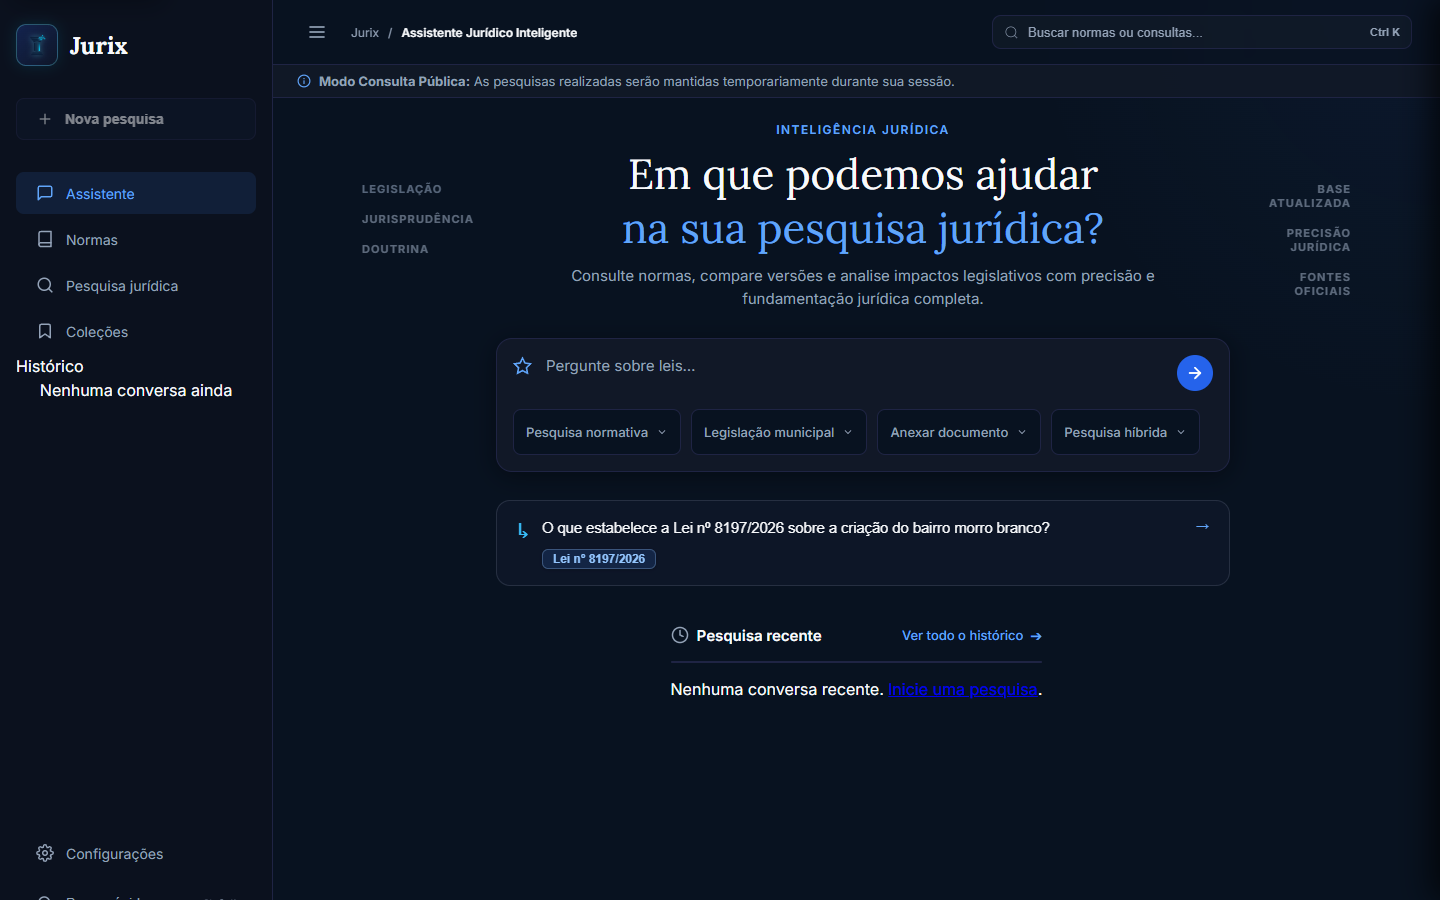
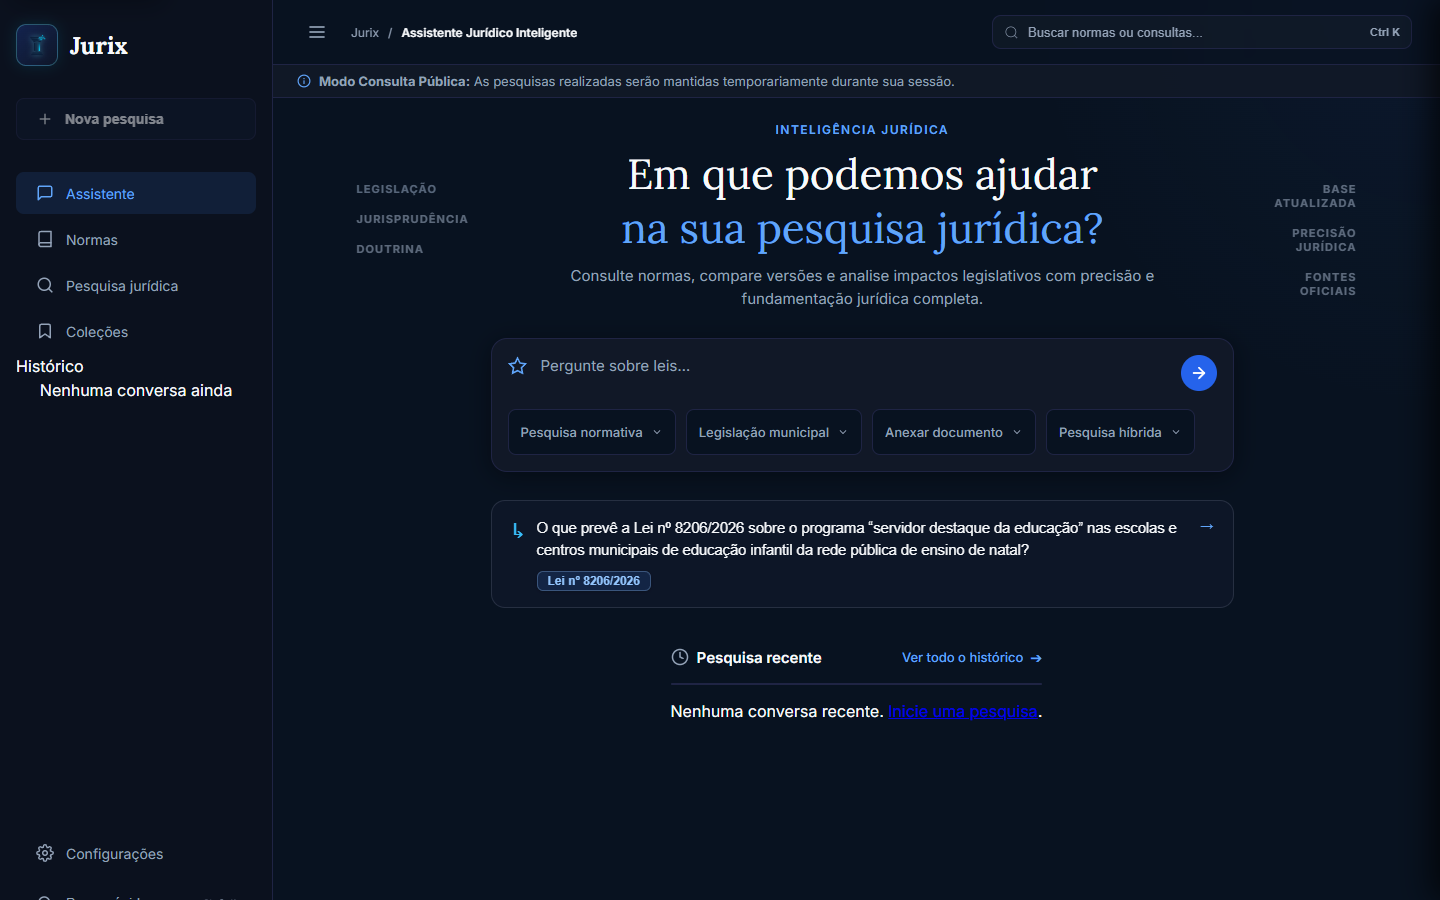
Polish direct-search fallback and secondary actions

diff --git a/src/apps/core/static/css/workspace.css b/src/apps/core/static/css/workspace.css
@@ -55,6 +55,8 @@
 .workspace-button { min-height: 40px; padding: 0 15px; border-radius: 9px; border: 1px solid var(--figma-border); font: inherit; font-size: 12px; font-weight: 700; cursor: pointer; text-decoration: none; display: inline-flex; align-items: center; justify-content: center; }
 .workspace-button-primary { background: var(--figma-blue-primary); color: var(--figma-text-white); border-color: var(--figma-blue-primary); }
 .workspace-button-primary:hover { background: var(--figma-blue-dark); }
+.workspace-button-secondary { background: rgba(255,255,255,.035); color: var(--figma-text-body); border-color: var(--figma-border-strong); }
+.workspace-button-secondary:hover { background: rgba(96,165,250,.08); color: var(--figma-text-white); border-color: var(--figma-blue-light); }
 .workspace-card-grid { display: grid; grid-template-columns: repeat(auto-fill, minmax(240px, 1fr)); gap: 16px; }
 .workspace-card { padding: 22px; border: 1px solid var(--figma-border); border-radius: 14px; background: var(--figma-bg-surface); }
 .workspace-card h2 { margin: 8px 0; font-size: 1.05rem; }

diff --git a/src/apps/legislation/templates/legislation/workspace/base.html b/src/apps/legislation/templates/legislation/workspace/base.html
@@ -12,7 +12,7 @@
     <link rel="preconnect" href="https://fonts.gstatic.com" crossorigin>
     <link href="https://fonts.googleapis.com/css2?family=Inter:wght@400;500;600;700&family=Lora:ital,wght@0,400;0,600;0,700;1,400&family=JetBrains+Mono:wght@400;500&display=swap" rel="stylesheet">
     <link rel="stylesheet" href="{% static 'css/jurix-figma.css' %}?v=20260929-color-contrast-aa">
-    <link rel="stylesheet" href="{% static 'css/workspace.css' %}?v=20260929-settings-warning1">
+    <link rel="stylesheet" href="{% static 'css/workspace.css' %}?v=20260929-secondary-button1">
     <link rel="stylesheet" href="{% static 'css/jurix-components.css' %}">
     {% block extra_css %}{% endblock %}
 </head>

diff --git a/FRONTEND_LOG.md b/FRONTEND_LOG.md
@@ -1519,6 +1519,33 @@ streaming/persistence tests, and contrast checks. `git diff --check` passed.
 Next action: Re-audit route navigation and history-to-assistant transitions,
 including viewport and focus behavior on mobile.
 
+## Cycle 37 — 2026-09-29
+
+Area: Theme consistency between workspace and assistant/public shells.
+
+Observed problem: `/configuracoes/` stores theme in `jurix-preferences`, while
+the assistant's legacy `theme.js` read only `jurix-theme`. A live-browser route
+walk reproduced the mismatch: saving Light left `/assistente/` Dark. The legacy
+toggle also changed only its old key, so workspace pages could revert it.
+
+Changes made: Theme resolution now prioritizes the shared workspace preference,
+supports the `system` mode without converting it into a fixed color, and keeps
+the legacy key synchronized for older routes. Workspace appearance application
+also updates that compatibility key. Cache keys were bumped on both templates
+that load the shared theme controller.
+
+Browser validation: Reproduced the old cross-route mismatch on the local Django
+app. Added Chromium coverage for conflicting old/new keys, toggle synchronization,
+and system-dark behavior with the system preference preserved. Focused test
+passed.
+
+Tests: Focused theme integration Chromium test passed. The full frontend suite
+passed with 16 real-Chromium scenarios, 18 structural tests, 15
+streaming/persistence tests, and contrast checks. `git diff --check` passed.
+
+Next action: Continue with keyboard and route transitions from History into
+conversation pages, including browser back/forward and mobile navigation.
+
 ## Cycle 38 — 2026-09-29
 
 Area: Applying density preferences to assistant conversations.
@@ -1621,12 +1648,15 @@ existing search supports number, type and ementa. The corpus currently has only
 
 Changes made: Added a clear direct-catalog CTA to semantic no-result states,
 preserving query, type and year in the link. Added structural coverage; no
-backend, RAG, model or API contract was changed.
+backend, RAG, model or API contract was changed. Found that the shared
+`workspace-button-secondary` class had no explicit design-system rules; added
+normal/hover states for the CTA and the existing history pagination links.
 
 Browser validation: Real 390px `/pesquisa/` rendered the CTA without horizontal
 overflow and produced `/normas/?q=7982&tipo=1&ano=2025`. The linked route
 returned HTTP 200 with those filters. This is a discoverable fallback, not a
-claim that a missing norm exists in the local corpus.
+claim that a missing norm exists in the local corpus. The CTA's computed hit
+target is 46px; hover changes surface, border and text color as intended.
 
 Tests: Focused empty-state contract passed. The full frontend suite passed with
 17 real-Chromium scenarios, 19 structural tests, 15 streaming/persistence
@@ -1634,30 +1664,3 @@ tests, and contrast checks. `git diff --check` passed.
 
 Next action: Continue route-level keyboard verification and audit no-results,
 empty and error states across the primary product surfaces.
-
-## Cycle 37 — 2026-09-29
-
-Area: Theme consistency between workspace and assistant/public shells.
-
-Observed problem: `/configuracoes/` stores theme in `jurix-preferences`, while
-the assistant's legacy `theme.js` read only `jurix-theme`. A live-browser route
-walk reproduced the mismatch: saving Light left `/assistente/` Dark. The legacy
-toggle also changed only its old key, so workspace pages could revert it.
-
-Changes made: Theme resolution now prioritizes the shared workspace preference,
-supports the `system` mode without converting it into a fixed color, and keeps
-the legacy key synchronized for older routes. Workspace appearance application
-also updates that compatibility key. Cache keys were bumped on both templates
-that load the shared theme controller.
-
-Browser validation: Reproduced the old cross-route mismatch on the local Django
-app. Added Chromium coverage for conflicting old/new keys, toggle synchronization,
-and system-dark behavior with the system preference preserved. Focused test
-passed.
-
-Tests: Focused theme integration Chromium test passed. The full frontend suite
-passed with 16 real-Chromium scenarios, 18 structural tests, 15
-streaming/persistence tests, and contrast checks. `git diff --check` passed.
-
-Next action: Continue with keyboard and route transitions from History into
-conversation pages, including browser back/forward and mobile navigation.
